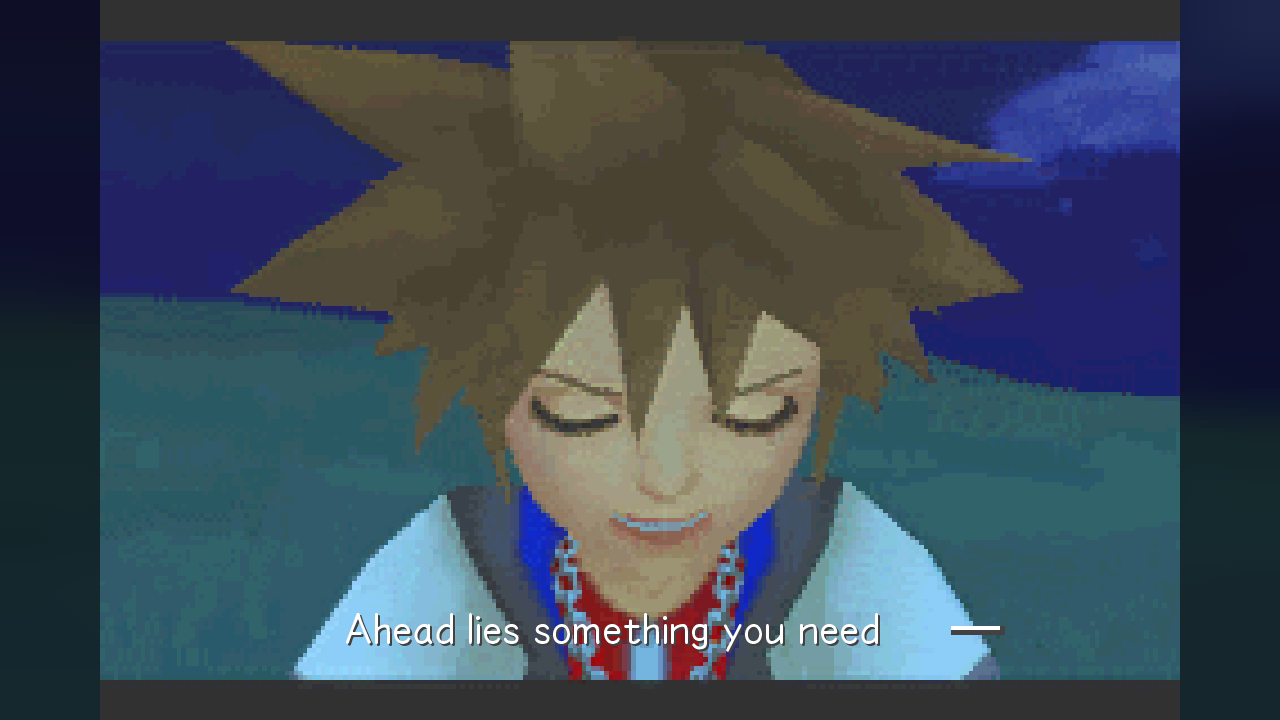
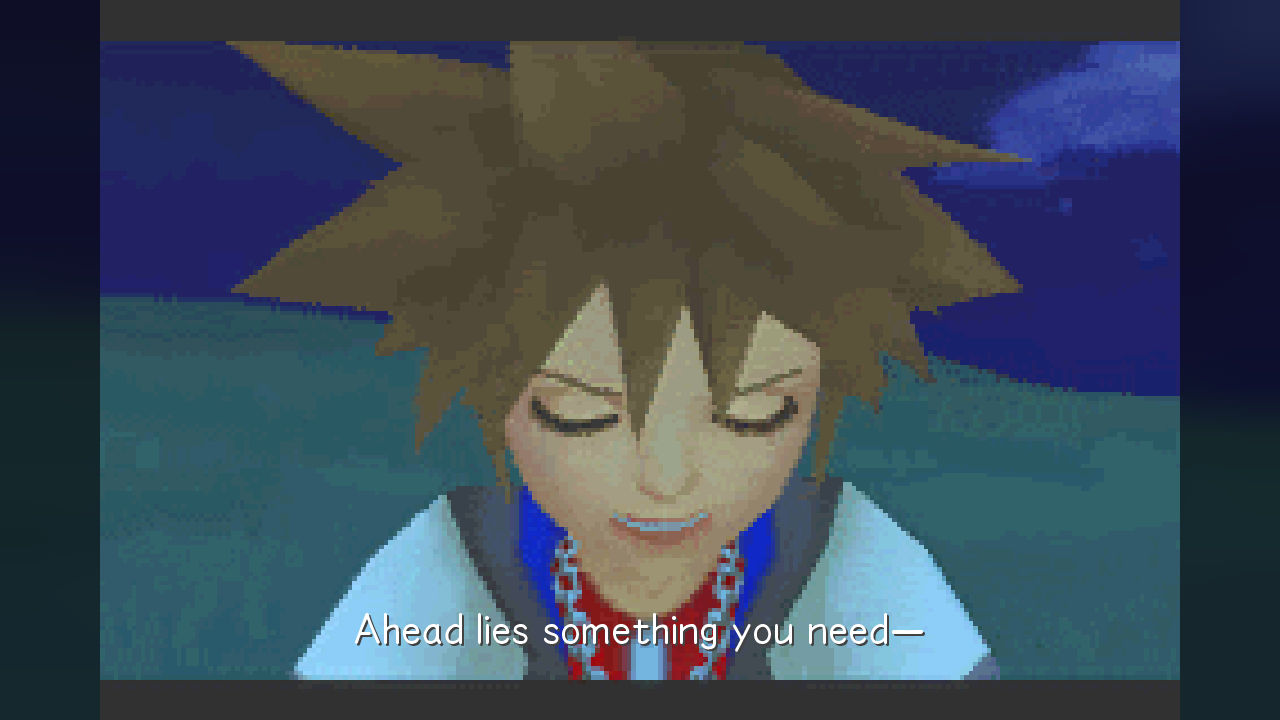
Fix native dash left behind by HD subtitle layout

Changed region(s): [[0.25, 0.8556, 0.7812, 0.9167]]

diff --git a/port/tools/capture_hud_layout.py b/port/tools/capture_hud_layout.py
@@ -1,0 +1,29 @@
+"""Capture native HUD OBJ boxes for both campaigns without changing user data."""
+import json
+import os
+from pathlib import Path
+import re
+import subprocess
+from datetime import datetime
+
+ROOT = Path(__file__).resolve().parents[2]
+work = ROOT / 'build/hud-layout' / datetime.now().strftime('%Y%m%d-%H%M%S')
+work.mkdir(parents=True)
+for actor, riku in (('sora', 0), ('riku', 1)):
+    folder = work / actor
+    folder.mkdir()
+    (folder / 'kh_com.ini').write_text('config_version=2\nview_mode=4\nwindow_scale=4\nhd_text=0\nhd_hud=0\n')
+    env = {k: v for k, v in os.environ.items() if not k.startswith('KHCOM_')}
+    env.update(SDL_VIDEO_DRIVER='dummy', SDL_AUDIO_DRIVER='dummy', KHCOM_FAST='1',
+               KHCOM_BATTLE=f'0:0:{riku}', KHCOM_KEYS='60-63:A', KHCOM_HUD_LAYOUT='380',
+               KHCOM_OUTPUT_SHOT='380', KHCOM_QUIT='385')
+    subprocess.run([str(ROOT / 'build/cx-eu/khcom.exe'), '--data-dir', str(folder),
+                    '--rom', str(ROOT / 'roms/B8CP.gba'), '--language', 'en'],
+                   cwd=folder, env=env, check=True, timeout=90)
+    log = (folder / 'kh_com.log').read_text(errors='replace')
+    boxes = [dict((k, int(v)) for k, v in re.findall(r'(\w+)=(-?\d+)', line))
+             for line in log.splitlines() if line.startswith('hud-layout:')]
+    assert boxes, f'No actual HUD geometry captured for {actor}'
+    (folder / 'layout.json').write_text(json.dumps({'actor': actor, 'frame': 380, 'objects': boxes}, indent=2))
+    print(actor, len(boxes), 'native objects')
+print(work)

diff --git a/port/src/port_ppu.c b/port/src/port_ppu.c
@@ -417,7 +417,9 @@ static int HdTextGlyph(int oamIndex) {
 void PortOamSetText(int oamIndex, int code, int style) {
     if (oamIndex >= 0 && oamIndex < 128) {
         memset(&sOamTag[oamIndex], 0, sizeof(sOamTag[0]));
-        sOamTag[oamIndex].text = (uint16_t)code;
+        /* Cartridge horizontal bar is glyph 25, below printable Latin.
+           Subtitle punctuation belongs in the HD line, unlike button icons. */
+        sOamTag[oamIndex].text = (uint16_t)(style == 1 && code == 25 ? 0x97 : code);
         sOamTag[oamIndex].style = (uint8_t)style;
     }
 }
@@ -2138,6 +2140,12 @@ void PortPpuRenderHud(uint32_t* buf) {
         hy = tag->ay < 0 ? yg : (tag->ay > 0 ? h - (GBA_SCREEN_H - yg) : yg + (h - GBA_SCREEN_H) / 2);
         if (tag->ay > 0)
             hy -= HudRaise();
+        {
+            const char* frame = getenv("KHCOM_HUD_LAYOUT");
+            if (frame && (uint32_t)atoi(frame) == PortFrameCount())
+                PortLog("hud-layout: frame=%u slot=%d x=%d y=%d w=%d h=%d tile=%d palette=%d part=%d affine=%d",
+                    PortFrameCount(), i, hx, hy, bw, bh, a2 & 1023, a2 >> 12, tag->hdHudPart, affine);
+        }
         if (affine) {
             const uint16_t* p = OAM16 + ((a1 >> 9) & 31) * 16;
             pa = (int16_t)p[3];

diff --git a/port/src/port_hdtext.c b/port/src/port_hdtext.c
@@ -573,7 +573,7 @@ static void DrawSubtitles(SDL_Renderer* renderer, PortTextGlyph* glyphs, int n, 
             if (j > i && gap > 0)
                 hdWidth += space * SDL_max(1, (gap + gameSpace / 2) / gameSpace);
             hdWidth += jp ? HD_TEXT_JP_CELL * scale : (float)Glyph(renderer, font, glyphs[j].code)->advance;
-            prevEnd = glyphs[j].x + (jp ? HD_TEXT_JP_CELL : widths[glyphs[j].code & 255]);
+            prevEnd = glyphs[j].x + (jp ? HD_TEXT_JP_CELL : widths[glyphs[j].code == 0x97 ? 25 : glyphs[j].code & 255]);
         }
         gameEnd = prevEnd;
         pen = originX + ((gameStart + gameEnd) * 0.5f) * scale - hdWidth * 0.5f;
@@ -595,7 +595,7 @@ static void DrawSubtitles(SDL_Renderer* renderer, PortTextGlyph* glyphs, int n, 
                 DrawGlyph(renderer, g, pen + shadow, baseline + shadow, glyphs[t].shadow, alpha);
                 DrawGlyph(renderer, g, pen, baseline, glyphs[t].face, alpha);
                 pen += g->advance;
-                prevEnd = glyphs[t].x + widths[glyphs[t].code & 255];
+                prevEnd = glyphs[t].x + widths[glyphs[t].code == 0x97 ? 25 : glyphs[t].code & 255];
             }
         }
     }

diff --git a/port/assets/hd-hud/drafts/README.md b/port/assets/hd-hud/drafts/README.md
@@ -9,3 +9,14 @@ pending in HUD_HD_INVENTARIO.md.
 Generated from the local original portrait and battle reference; second pass
 preserved the face/hair/rim and cleaned the transparent exterior with padding.
 No runtime path references this draft.
+
+`sora-player-assembly-v1.png` is the first complete composition reference
+(portrait, rim and both bars). It is not a runtime replacement: the generated
+bar offsets must be fitted against the native object geometry first. Fills
+must remain dynamic; never bake these full sample bars into gameplay.
+
+Native Sora capture at frame380: portrait box (1,-7,32,32), frame pieces
+(4,2,32,8), (36,2,32,8), (60,2,32,8), (4,10,32,16); live fill object
+(30,1,64,16), affine. Riku portrait box is (0,-7,32,32).
+Coordinates are HUD-native units, including transparent margins; they are
+not equivalent to visible ink bounds. Reproduce with capture_hud_layout.py.
